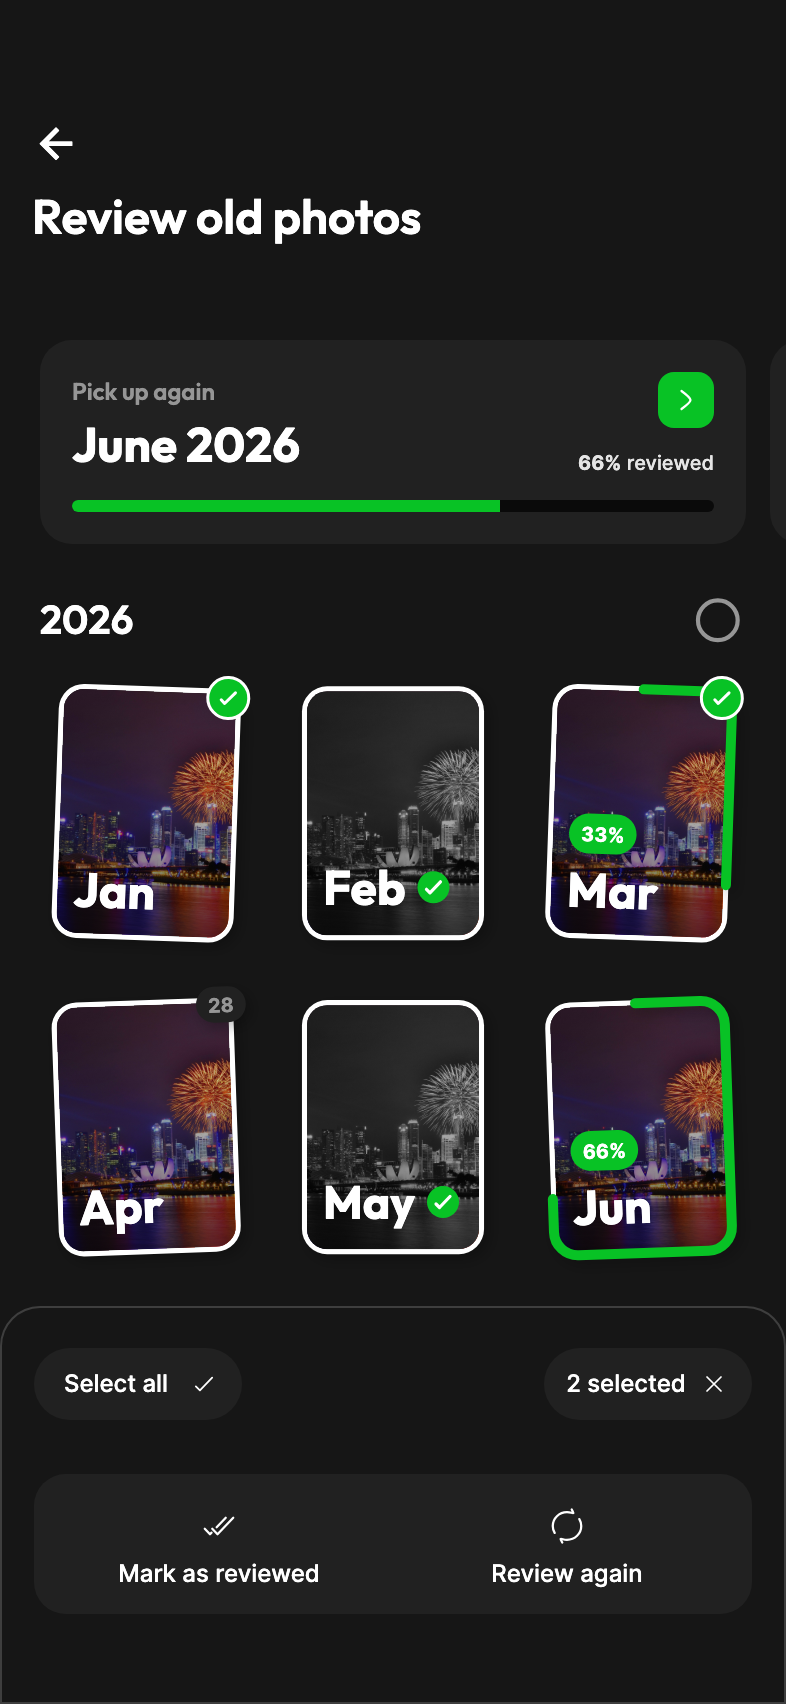
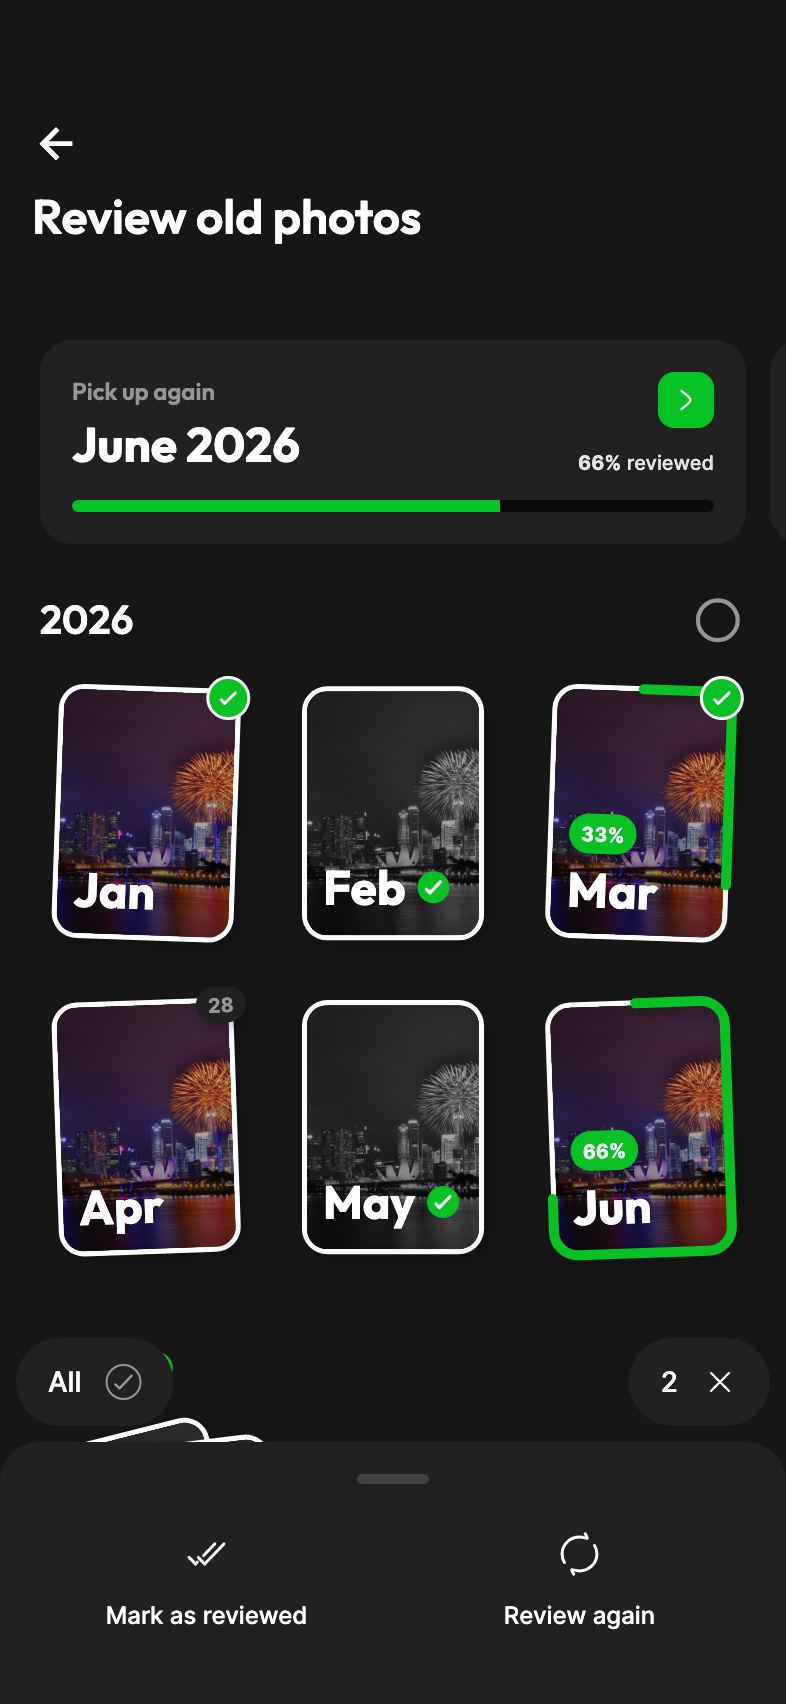
[mobile][photos] Refresh month selection screenshot fixtures

diff --git a/README.md b/README.md
@@ -1,16 +1,16 @@
 # Gallery cleanup screenshot fixtures
 
-Rendered from `r4khul/ente` commit `3120b031ec5a668b60098ee1b92bed5b65521e1f` using Flutter 3.47.2.
+Rendered using Flutter 3.47.2. Month-selection screenshots were refreshed from `bec8c484e07f6f3ebb39b1b63d11f1d3ca73c6f9`; the other screenshots were captured from `3120b031ec5a668b60098ee1b92bed5b65521e1f`.
 
 These are **Flutter widget-harness captures**, not screenshots of a live account or proof of a successful cloud deletion. They use the production screen/widget code, bundled Inter/Outfit and icon fonts, enabled shadows, and the public Singapore sample image already in the repository. The harness injects deterministic screen state, enables the internal feature entry, replaces the favorites lookup, and makes deletion callbacks inert. No account, SQLite store, network, or personal photo library is used.
 
 Each of the 14 states is captured in light and dark mode at 393 × 852 logical pixels, rendered at 2×: entry point, overview, month selection, completed year, expanded completed year, photo review, keep/delete swipe feedback, video review, deletion queue, deletion confirmation, completion with freed space, completion with everything kept, and empty library. These are new feature screens; there is no equivalent main-branch baseline for them.
 
-The generator copies the three relevant production screen libraries into a temporary test library so their private state can be initialized without adding fixture hooks to the application. Shared widgets are imported from the checkout unchanged. `harness_tail.dart` contains the fixture data and screenshot runner. `capture.log` records the 28 successful captures.
+The generator copies the three relevant production screen libraries into a temporary test library so their private state can be initialized without adding fixture hooks to the application. Shared widgets are imported from the checkout unchanged. `harness_tail.dart` contains the fixture data and screenshot runner. `capture.log` records the original 28 successful captures; `selection-capture.log` records the two refreshed month-selection captures.
 
 ## Reproduce
 
-Use an Ente checkout at the commit above with its Flutter dependencies and generated localizations available. Download this evidence branch outside the application checkout, then run:
+Use an Ente checkout at the relevant commit above with its Flutter dependencies and generated localizations available. Download this evidence branch outside the application checkout, then run:
 
 ```sh
 python3 /path/to/evidence/build_harness.py /path/to/ente
